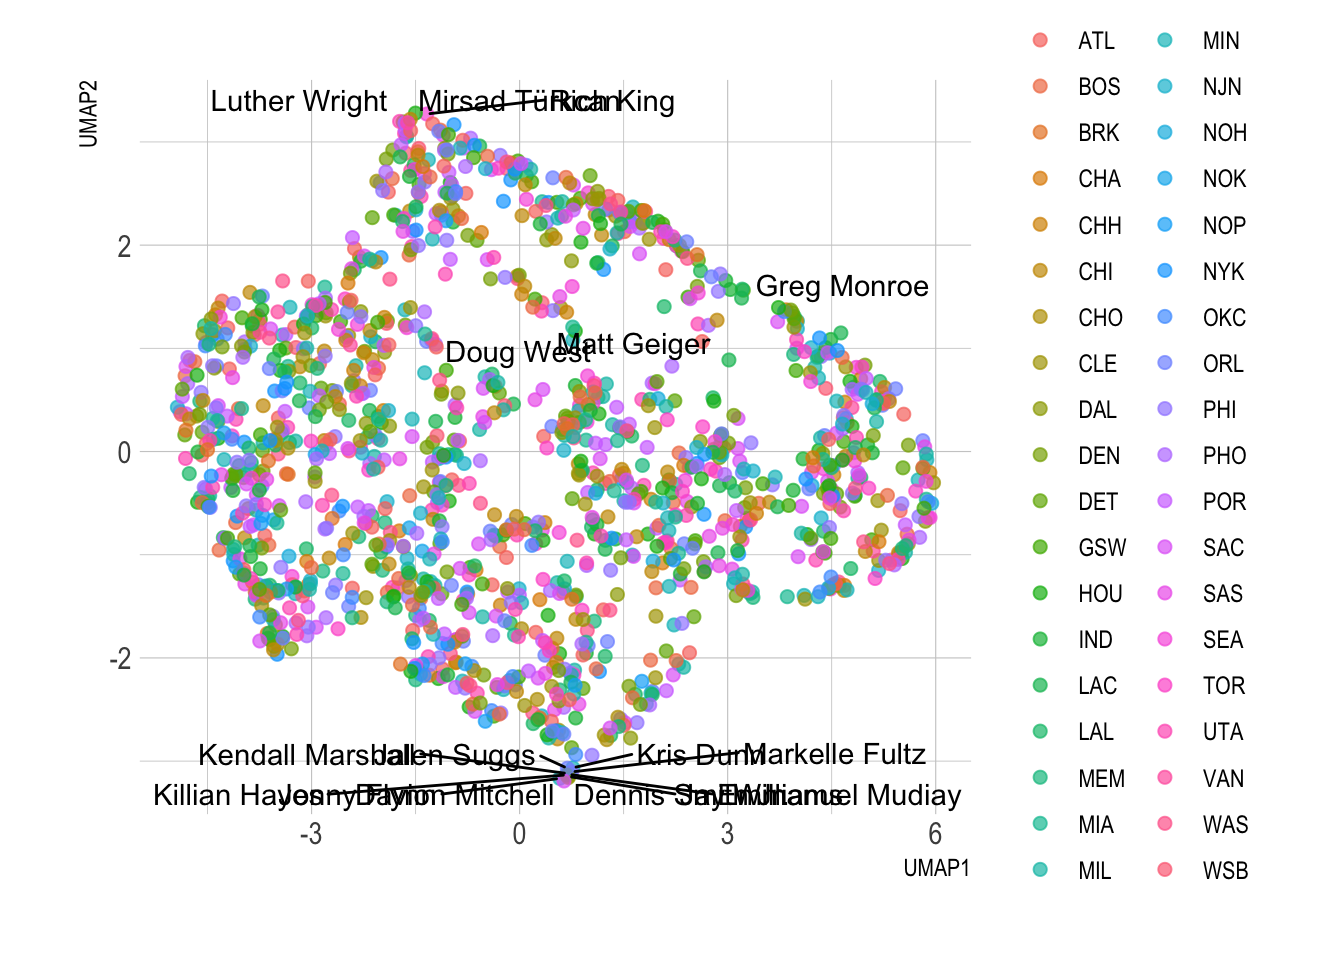
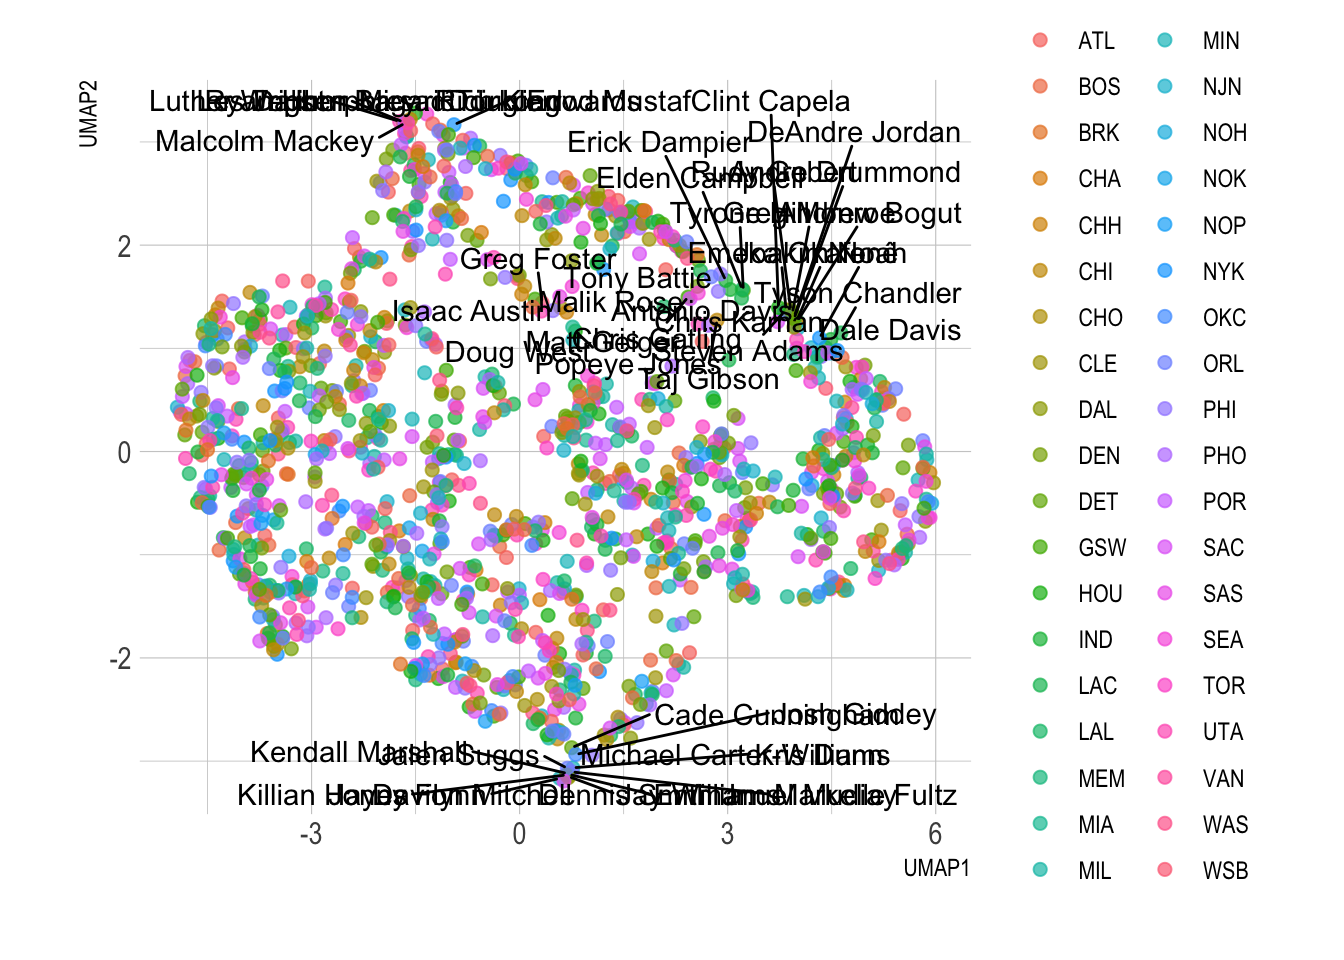
finished tsne code. Added some conclusion text.

Changed region(s): [[0.125, 0.0938, 0.7188, 0.4062], [0.0938, 0.7188, 0.7188, 0.8438]]

diff --git a/_site/posts/nba-clustering/nba-clustering.html b/_site/posts/nba-clustering/nba-clustering.html
@@ -227,8 +227,7 @@ gtag('config', 'G-ZVPYZZSZ1B', { 'anonymize_ip': true});
     <h2 id="toc-title">Table of contents</h2>
    
   <ul>
-  <li><a href="#this-post-is-under-construction.-please-check-back-later" id="toc-this-post-is-under-construction.-please-check-back-later" class="nav-link active" data-scroll-target="#this-post-is-under-construction.-please-check-back-later">This post is under construction. Please check back later</a></li>
-  <li><a href="#nba-draft-analysis" id="toc-nba-draft-analysis" class="nav-link" data-scroll-target="#nba-draft-analysis">NBA Draft Analysis</a>
+  <li><a href="#nba-draft-analysis" id="toc-nba-draft-analysis" class="nav-link active" data-scroll-target="#nba-draft-analysis">NBA Draft Analysis</a>
   <ul class="collapse">
   <li><a href="#about-the-data" id="toc-about-the-data" class="nav-link" data-scroll-target="#about-the-data">About the Data</a></li>
   <li><a href="#motivation" id="toc-motivation" class="nav-link" data-scroll-target="#motivation">Motivation</a></li>
@@ -245,8 +244,7 @@ gtag('config', 'G-ZVPYZZSZ1B', { 'anonymize_ip': true});
   <li><a href="#umap" id="toc-umap" class="nav-link" data-scroll-target="#umap">UMAP</a></li>
   <li><a href="#tsne" id="toc-tsne" class="nav-link" data-scroll-target="#tsne">TSNE</a></li>
   </ul></li>
-  <li><a href="#results" id="toc-results" class="nav-link" data-scroll-target="#results">Results</a></li>
-  <li><a href="#conclusion" id="toc-conclusion" class="nav-link" data-scroll-target="#conclusion">Conclusion</a></li>
+  <li><a href="#results-and-conclusion" id="toc-results-and-conclusion" class="nav-link" data-scroll-target="#results-and-conclusion">Results and Conclusion</a></li>
   <li><a href="#references" id="toc-references" class="nav-link" data-scroll-target="#references">References</a></li>
   <li><a href="#additional-notes" id="toc-additional-notes" class="nav-link" data-scroll-target="#additional-notes">Additional Notes</a></li>
   </ul></li>
@@ -262,9 +260,6 @@ gtag('config', 'G-ZVPYZZSZ1B', { 'anonymize_ip': true});
 
 
 
-<section id="this-post-is-under-construction.-please-check-back-later" class="level2">
-<h2 class="anchored" data-anchor-id="this-post-is-under-construction.-please-check-back-later">This post is under construction. Please check back later</h2>
-</section>
 <section id="nba-draft-analysis" class="level1">
 <h1>NBA Draft Analysis</h1>
 <div class="quarto-figure quarto-figure-center">
@@ -274,26 +269,6 @@ gtag('config', 'G-ZVPYZZSZ1B', { 'anonymize_ip': true});
 </figure>
 </div>
 <p>This is a continuation of my series of learning to use different algorithms in R and learning more about the Tidymodels package, and its various uses.</p>
-<ul class="task-list">
-<li><input type="checkbox" disabled="">
-Kaggle Dataset - Try out TIdymodels</li>
-<li><input type="checkbox" disabled="">
-UMap vs TSNE vs PCA vs KNN for NBA players dataset</li>
-<li><input type="checkbox" disabled="">
-Make a Blog and compare all of them</li>
-<li><input type="checkbox" disabled="">
-Figure out a title</li>
-<li><input type="checkbox" disabled="">
-Submit on Kaggle (optional)</li>
-<li><input type="checkbox" disabled="">
-Write the blog</li>
-<li><input type="checkbox" disabled="">
-Publish the blog</li>
-<li><input type="checkbox" disabled="">
-Share on Medium and Twitter</li>
-<li><input type="checkbox" disabled="">
-Submit to Towards Data Science</li>
-</ul>
 <section id="about-the-data" class="level2">
 <h2 class="anchored" data-anchor-id="about-the-data">About the Data</h2>
 <p>The data set used comes for Kaggle.com, a great source of finding all kinds of data sets for data visualization and analysis. The data contains various statistics for all the NBA players drafted into the league from 1989 to 2021. It is a fairly tidy data set and requires little to none data clean in most of the cases to use for analysis.</p>
@@ -393,7 +368,7 @@ Data Information (click to expand)
 ✖ dplyr::lag()      masks stats::lag()
 ✖ yardstick::spec() masks readr::spec()
 ✖ recipes::step()   masks stats::step()
-• Learn how to get started at https://www.tidymodels.org/start/</code></pre>
+• Use suppressPackageStartupMessages() to eliminate package startup messages</code></pre>
 </div>
 <div class="sourceCode cell-code" id="cb5"><pre class="sourceCode r code-with-copy"><code class="sourceCode r"><span id="cb5-1"><a href="#cb5-1" aria-hidden="true" tabindex="-1"></a><span class="fu">library</span>(tidytext)</span>
 <span id="cb5-2"><a href="#cb5-2" aria-hidden="true" tabindex="-1"></a><span class="fu">library</span>(Rtsne)</span>
@@ -615,10 +590,10 @@ UMAP embedding for year, rank, overall_pick, years_active, games,... [trained]</
 <div class="sourceCode cell-code" id="cb27"><pre class="sourceCode r code-with-copy"><code class="sourceCode r"><span id="cb27-1"><a href="#cb27-1" aria-hidden="true" tabindex="-1"></a><span class="fu">juice</span>(umap_prep) <span class="sc">|&gt;</span> </span>
 <span id="cb27-2"><a href="#cb27-2" aria-hidden="true" tabindex="-1"></a>  <span class="fu">ggplot</span>(<span class="fu">aes</span>(UMAP1, UMAP2, <span class="at">label =</span> player)) <span class="sc">+</span></span>
 <span id="cb27-3"><a href="#cb27-3" aria-hidden="true" tabindex="-1"></a>  <span class="fu">geom_point</span>(<span class="fu">aes</span>(<span class="at">color =</span> team), <span class="at">alpha =</span> <span class="fl">0.7</span>, <span class="at">size =</span> <span class="dv">2</span>) <span class="sc">+</span></span>
-<span id="cb27-4"><a href="#cb27-4" aria-hidden="true" tabindex="-1"></a>  ggrepel<span class="sc">::</span><span class="fu">geom_text_repel</span>(<span class="at">max.overlaps =</span> <span class="dv">60</span>) <span class="sc">+</span></span>
+<span id="cb27-4"><a href="#cb27-4" aria-hidden="true" tabindex="-1"></a>  ggrepel<span class="sc">::</span><span class="fu">geom_text_repel</span>(<span class="at">max.overlaps =</span> <span class="dv">75</span>) <span class="sc">+</span></span>
 <span id="cb27-5"><a href="#cb27-5" aria-hidden="true" tabindex="-1"></a>  <span class="fu">labs</span>(<span class="at">color =</span> <span class="cn">NULL</span>) <span class="sc">+</span> hrbrthemes<span class="sc">::</span><span class="fu">theme_ipsum</span>()</span></code><button title="Copy to Clipboard" class="code-copy-button"><i class="bi"></i></button></pre></div>
 <div class="cell-output cell-output-stderr">
-<pre><code>Warning: ggrepel: 1513 unlabeled data points (too many overlaps). Consider
+<pre><code>Warning: ggrepel: 1481 unlabeled data points (too many overlaps). Consider
 increasing max.overlaps</code></pre>
 </div>
 <div class="cell-output-display">
@@ -629,28 +604,38 @@ increasing max.overlaps</code></pre>
 <section id="tsne" class="level3">
 <h3 class="anchored" data-anchor-id="tsne">TSNE</h3>
 <div class="cell">
-<div class="sourceCode cell-code" id="cb29"><pre class="sourceCode r code-with-copy"><code class="sourceCode r"><span id="cb29-1"><a href="#cb29-1" aria-hidden="true" tabindex="-1"></a>tsne <span class="ot">&lt;-</span> <span class="fu">Rtsne</span>(nba, </span>
-<span id="cb29-2"><a href="#cb29-2" aria-hidden="true" tabindex="-1"></a><span class="at">perplexity =</span> <span class="dv">30</span>,</span>
-<span id="cb29-3"><a href="#cb29-3" aria-hidden="true" tabindex="-1"></a><span class="at">eta =</span> <span class="dv">100</span>,</span>
-<span id="cb29-4"><a href="#cb29-4" aria-hidden="true" tabindex="-1"></a><span class="at">max_iter =</span> <span class="dv">1000</span>)</span></code><button title="Copy to Clipboard" class="code-copy-button"><i class="bi"></i></button></pre></div>
+<div class="sourceCode cell-code" id="cb29"><pre class="sourceCode r code-with-copy"><code class="sourceCode r"><span id="cb29-1"><a href="#cb29-1" aria-hidden="true" tabindex="-1"></a>nba_tsne <span class="ot">&lt;-</span> nba  <span class="sc">|&gt;</span> <span class="fu">select</span>(<span class="sc">-</span><span class="fu">c</span>(team, player))</span></code><button title="Copy to Clipboard" class="code-copy-button"><i class="bi"></i></button></pre></div>
 </div>
 <div class="cell">
-<div class="sourceCode cell-code" id="cb30"><pre class="sourceCode r code-with-copy"><code class="sourceCode r"><span id="cb30-1"><a href="#cb30-1" aria-hidden="true" tabindex="-1"></a>Y <span class="ot">&lt;-</span> <span class="fu">as.data.frame</span>(tsne<span class="sc">$</span>Y)</span></code><button title="Copy to Clipboard" class="code-copy-button"><i class="bi"></i></button></pre></div>
+<div class="sourceCode cell-code" id="cb30"><pre class="sourceCode r code-with-copy"><code class="sourceCode r"><span id="cb30-1"><a href="#cb30-1" aria-hidden="true" tabindex="-1"></a>tsne <span class="ot">&lt;-</span> <span class="fu">Rtsne</span>(nba_tsne, </span>
+<span id="cb30-2"><a href="#cb30-2" aria-hidden="true" tabindex="-1"></a><span class="at">perplexity =</span> <span class="dv">30</span>,</span>
+<span id="cb30-3"><a href="#cb30-3" aria-hidden="true" tabindex="-1"></a><span class="at">eta =</span> <span class="dv">100</span>,</span>
+<span id="cb30-4"><a href="#cb30-4" aria-hidden="true" tabindex="-1"></a><span class="at">max_iter =</span> <span class="dv">1000</span>)</span></code><button title="Copy to Clipboard" class="code-copy-button"><i class="bi"></i></button></pre></div>
 </div>
 <div class="cell">
-<div class="sourceCode cell-code" id="cb31"><pre class="sourceCode r code-with-copy"><code class="sourceCode r"><span id="cb31-1"><a href="#cb31-1" aria-hidden="true" tabindex="-1"></a><span class="fu">ggplot</span>(Y, <span class="fu">aes</span>(<span class="at">x =</span>V1, <span class="at">y =</span>V2)) <span class="sc">+</span></span>
-<span id="cb31-2"><a href="#cb31-2" aria-hidden="true" tabindex="-1"></a><span class="fu">geom_point</span>() <span class="sc">+</span> <span class="fu">labs</span>(<span class="at">x =</span> <span class="st">"tsne-1"</span>, <span class="at">y =</span> <span class="st">"tsne-2"</span>,<span class="at">color =</span> <span class="st">"team"</span>)</span></code><button title="Copy to Clipboard" class="code-copy-button"><i class="bi"></i></button></pre></div>
+<div class="sourceCode cell-code" id="cb31"><pre class="sourceCode r code-with-copy"><code class="sourceCode r"><span id="cb31-1"><a href="#cb31-1" aria-hidden="true" tabindex="-1"></a>Y <span class="ot">&lt;-</span> <span class="fu">as.data.frame</span>(tsne<span class="sc">$</span>Y)</span>
+<span id="cb31-2"><a href="#cb31-2" aria-hidden="true" tabindex="-1"></a></span>
+<span id="cb31-3"><a href="#cb31-3" aria-hidden="true" tabindex="-1"></a>teams <span class="ot">&lt;-</span> nba<span class="sc">$</span>team</span>
+<span id="cb31-4"><a href="#cb31-4" aria-hidden="true" tabindex="-1"></a>players <span class="ot">&lt;-</span> nba<span class="sc">$</span>player</span></code><button title="Copy to Clipboard" class="code-copy-button"><i class="bi"></i></button></pre></div>
+</div>
+<div class="cell">
+<div class="sourceCode cell-code" id="cb32"><pre class="sourceCode r code-with-copy"><code class="sourceCode r"><span id="cb32-1"><a href="#cb32-1" aria-hidden="true" tabindex="-1"></a><span class="fu">ggplot</span>(Y, <span class="fu">aes</span>(<span class="at">x =</span>V1, <span class="at">y =</span>V2, <span class="at">label =</span> players)) <span class="sc">+</span></span>
+<span id="cb32-2"><a href="#cb32-2" aria-hidden="true" tabindex="-1"></a><span class="fu">geom_point</span>(<span class="fu">aes</span>(<span class="at">color =</span> teams)) <span class="sc">+</span> <span class="fu">labs</span>(<span class="at">x =</span> <span class="st">"tsne-1"</span>, <span class="at">y =</span> <span class="st">"tsne-2"</span>,<span class="at">color =</span> <span class="st">"team"</span>) <span class="sc">+</span></span>
+<span id="cb32-3"><a href="#cb32-3" aria-hidden="true" tabindex="-1"></a>  ggrepel<span class="sc">::</span><span class="fu">geom_text_repel</span>(<span class="at">max.overlaps =</span> <span class="dv">60</span>) <span class="sc">+</span> hrbrthemes<span class="sc">::</span><span class="fu">theme_ipsum</span>()</span></code><button title="Copy to Clipboard" class="code-copy-button"><i class="bi"></i></button></pre></div>
+<div class="cell-output cell-output-stderr">
+<pre><code>Warning: ggrepel: 1519 unlabeled data points (too many overlaps). Consider
+increasing max.overlaps</code></pre>
+</div>
 <div class="cell-output-display">
-<p><img src="nba-clustering_files/figure-html/unnamed-chunk-18-1.png" class="img-fluid" width="672"></p>
+<p><img src="nba-clustering_files/figure-html/unnamed-chunk-19-1.png" class="img-fluid" width="672"></p>
 </div>
 </div>
 </section>
 </section>
-<section id="results" class="level2">
-<h2 class="anchored" data-anchor-id="results">Results</h2>
-</section>
-<section id="conclusion" class="level2">
-<h2 class="anchored" data-anchor-id="conclusion">Conclusion</h2>
+<section id="results-and-conclusion" class="level2">
+<h2 class="anchored" data-anchor-id="results-and-conclusion">Results and Conclusion</h2>
+<p>Three different results are available for each of algorithms through which the data is run. Using a smaller data set or knowing even more information like player positions (PF, C, PG etc.) could further help with the results and establishing a pattern of why each of the players are linked together or clustered together.</p>
+<p>Nevertheless, it was an interesting exercise for me personally and trying out TSNE in R for the first time.</p>
 </section>
 <section id="references" class="level2">
 <h2 class="anchored" data-anchor-id="references">References</h2>
